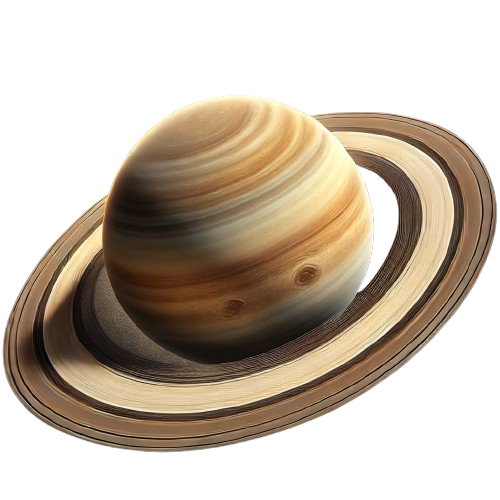
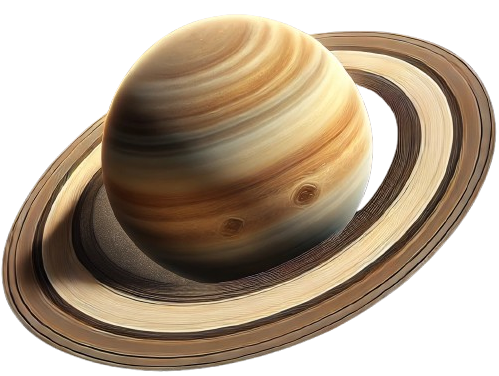
feat(): ajout compétence

diff --git a/src/components/home/SkillSection.tsx b/src/components/home/SkillSection.tsx
@@ -4,6 +4,7 @@ import React, {useEffect, useRef} from 'react';
 import {gsap} from 'gsap';
 import {ScrollTrigger} from 'gsap/ScrollTrigger';
 import Image from 'next/image';
+import soleil from '@/../public/assets/image/planete/soleil.png';
 import mercury from '@/../public/assets/image/planete/mercure.png';
 import venus from '@/../public/assets/image/planete/venus.png';
 import terre from '@/../public/assets/image/planete/terre.png';
@@ -16,6 +17,9 @@ import arrow from '@/../public/assets/image/utils/special-arrow-icon.svg';
 import WebDiv from "@/components/home/skillUtils/WebDiv";
 import AppDevDiv from "@/components/home/skillUtils/AppDevDiv";
 import BDDiv from "@/components/home/skillUtils/BDDiv";
+import SystemDiv from "@/components/home/skillUtils/SystemDiv";
+import ReseauDiv from "@/components/home/skillUtils/RéseauProtocoleDiv";
+import OutilsDevDiv from "@/components/home/skillUtils/OutilsDev";
 
 
 function ScrollSection() {
@@ -53,9 +57,18 @@ function ScrollSection() {
             <div ref={triggerRef}>
                 <div ref={sectionRef} className="min-h-screen w-[900vw] flex flex-row relative">
 
-                    <div className="min-h-screen w-screen flex justify-center items-center">
-                        <h2 className="text-6xl text-center items-center">Bienvenue dans mon système de compétences</h2>
-                        <Image src={arrow} alt={arrow} className={"ml-10 mt-3"}/>
+                    <div className="min-h-screen w-screen flex flex-col justify-center items-center">
+                        <div className={"flex justify-center items-center mb-10"}>
+                            <h2 className="text-6xl text-center items-center">
+                                Bienvenue dans mon système de compétences
+                            </h2>
+                            <Image src={arrow} alt={arrow} className={"ml-10 mt-3"}/>
+                        </div>
+                        <Image
+                            src={soleil}
+                            alt="soleil"
+                            className="object-contain h-3/4 w-auto"
+                        />
                     </div>
 
                     {/* Mercury */}
@@ -64,7 +77,7 @@ function ScrollSection() {
                         <Image
                             src={mercury}
                             alt="Mercure"
-                            className="object-contain h-[70vh] w-auto"
+                            className="object-contain h-3/4 w-auto"
                         />
                         <WebDiv/>
                     </div>
@@ -74,7 +87,7 @@ function ScrollSection() {
                         <Image
                             src={venus}
                             alt="Venus"
-                            className="object-contain h-[70vh] w-auto"
+                            className="object-contain h-3/4 w-auto"
                         />
                         <AppDevDiv/>
                     </div>
@@ -84,48 +97,56 @@ function ScrollSection() {
                         <Image
                             src={terre}
                             alt="Terre"
-                            className="object-contain h-[70vh] w-auto mb-6"
+                            className="object-contain h-3/4 w-auto mb-6"
                         />
                         <BDDiv/>
                     </div>
                     {/* Mars */}
                     <div className="min-h-screen w-screen flex flex-col justify-center items-center">
+                        <h3 className="text-3xl">Système</h3>
                         <Image
                             src={mars}
                             alt="Mars"
-                            className="object-contain h-[70vh] w-auto"
+                            className="object-contain h-3/4 w-auto"
                         />
+                        <SystemDiv/>
                     </div>
                     {/* Jupiter */}
                     <div className="min-h-screen w-screen flex flex-col justify-center items-center">
+                        <h3 className={"text-3xl "}>Réseau et protocoles</h3>
                         <Image
                             src={jupiter}
                             alt="Jupiter"
-                            className="object-contain h-[70vh] w-auto"
+                            className="object-contain h-2/3 w-auto"
                         />
+                        <ReseauDiv/>
                     </div>
                     {/* Saturn */}
                     <div className="min-h-screen w-screen flex flex-col justify-center items-center">
+                        <h3 className="text-3xl">Outils developpement et sécurité</h3>
                         <Image
                             src={saturne}
                             alt="Saturne"
-                            className="object-contain h-[70vh] w-auto"
+                            className="object-contain h-3/4 w-auto"
                         />
+                        <OutilsDevDiv/>
                     </div>
                     {/* Uranus */}
                     <div className="min-h-screen w-screen flex flex-col justify-center items-center">
+                        <h3 className={"text-3xl"}>Management</h3>
                         <Image
                             src={uranus}
                             alt="Uranus"
-                            className="object-contain h-[70vh] w-auto"
+                            className="object-contain h-3/4 w-auto"
                         />
                     </div>
                     {/* Neptune */}
                     <div className="min-h-screen w-screen flex flex-col justify-center items-center">
+                        <h3 className={"text-3xl"}>Outils autre</h3>
                         <Image
                             src={neptune}
                             alt="Neptune"
-                            className="object-contain h-[70vh] w-auto"
+                            className="object-contain h-3/4 w-auto"
                         />
                     </div>
                     <div className="min-h-screen w-screen flex flex-col justify-center items-center text-center">

diff --git a/src/components/home/skillUtils/OutilsDev.tsx b/src/components/home/skillUtils/OutilsDev.tsx
@@ -1,0 +1,31 @@
+import burp from "@/../public/assets/image/logoDev/outilsDev/burp-icon.svg";
+import docker from "@/../public/assets/image/logoDev/outilsDev/docker-icon.svg";
+import figma from "@/../public/assets/image/logoDev/outilsDev/figma.png";
+import git from "@/../public/assets/image/logoDev/outilsDev/git-icon.svg";
+import github from "@/../public/assets/image/logoDev/outilsDev/github.png";
+import gitlab from "@/../public/assets/image/logoDev/outilsDev/gitlab.png";
+import googleCloud from "@/../public/assets/image/logoDev/outilsDev/google cloud.png";
+import jdea from "@/../public/assets/image/logoDev/outilsDev/jdea.png";
+import phpStorm from "@/../public/assets/image/logoDev/outilsDev/phpStorm.png";
+import vscode from "@/../public/assets/image/logoDev/outilsDev/vscode.png";
+import webStorm from "@/../public/assets/image/logoDev/outilsDev/webstorm.png";
+
+import Image from "next/image";
+
+export default function OutilsDevDiv() {
+    return (
+        <div className={"flex justify-center text-center items-center space-x-4 w-full"}>
+            <Image className={"w-24 h-24"} src={burp} alt={"burp"} />
+            <Image className={"w-24 h-24"} src={docker} alt={"docker"} />
+            <Image className={"w-24 h-24"} src={figma} alt={"figma"} />
+            <Image className={"w-24 h-24"} src={git} alt={"git"} />
+            <Image className={"w-24 h-24"} src={github} alt={"github"} />
+            <Image className={"w-24 h-24"} src={gitlab} alt={"gitlab"} />
+            <Image className={"w-24 h-24"} src={googleCloud} alt={"google cloud"} />
+            <Image className={"w-24 h-24"} src={jdea} alt={"idea"} />
+            <Image className={"w-24 h-24"} src={phpStorm} alt={"phpStorm"} />
+            <Image className={"w-24 h-24"} src={vscode} alt={"vscode"} />
+            <Image className={"w-24 h-24"} src={webStorm} alt={"webStorm"} />
+        </div>
+    );
+}

diff --git a/src/components/home/skillUtils/SystemDiv.tsx b/src/components/home/skillUtils/SystemDiv.tsx
@@ -1,0 +1,25 @@
+import windows from "@/../public/assets/image/logoDev/systeme/windows.png"
+import winServ from "@/../public/assets/image/logoDev/systeme/win serveur.png"
+import linux from "@/../public/assets/image/logoDev/systeme/linux-icon.svg"
+import virtualBox from "@/../public/assets/image/logoDev/systeme/virtualBox.svg"
+import hyperV from "@/../public/assets/image/logoDev/systeme/hyperV.png"
+import apache from "@/../public/assets/image/logoDev/systeme/apache.png"
+import nginx from "@/../public/assets/image/logoDev/systeme/nginx.png"
+import vercel from "@/../public/assets/image/logoDev/systeme/vercel.png"
+
+import Image from "next/image";
+
+export default function SystemDiv() {
+    return (
+        <div className={"flex justify-center text-center items-center space-x-4 w-full"}>
+            <Image className={"w-28 h-28"} src={windows} alt={"windows"}/>
+            <Image className={"w-28 h-28 bg-white"} src={winServ} alt={"winServ"}/>
+            <Image className={"w-28 h-28"} src={linux} alt={"linux"}/>
+            <Image className={"w-28 h-28"} src={virtualBox} alt={"virtualBox"}/>
+            <Image className={"w-28 h-28"} src={hyperV} alt={"hyperV"}/>
+            <Image className={"w-28 h-28"} src={apache} alt={"apache"}/>
+            <Image className={"w-28 h-28"} src={nginx} alt={"nginx"}/>
+            <Image className={"w-28 h-28 bg-white rounded-full p-2"} src={vercel} alt={"vercel"}/>
+        </div>
+    )
+}

diff --git a/src/components/home/skillUtils/RéseauProtocoleDiv.tsx b/src/components/home/skillUtils/RéseauProtocoleDiv.tsx
@@ -1,0 +1,25 @@
+import dhcp from "@/../public/assets/image/logoDev/reseau/dhcp.png";
+import gns3 from "@/../public/assets/image/logoDev/reseau/gns3.png";
+import http from "@/../public/assets/image/logoDev/reseau/http.png";
+import ipv4 from "@/../public/assets/image/logoDev/reseau/ipV4.png";
+import ipv6 from "@/../public/assets/image/logoDev/reseau/ipV6.png";
+import ospf from "@/../public/assets/image/logoDev/reseau/ospf.png";
+import tcpip from "@/../public/assets/image/logoDev/reseau/tcpip.png";
+import wireshark from "@/../public/assets/image/logoDev/reseau/wireshark.png";
+
+import Image from "next/image";
+
+export default function ReseauDiv() {
+    return (
+        <div className={"flex justify-center text-center items-center space-x-4 w-full mt-10"}>
+            <Image className={"w-28 h-28"} src={dhcp} alt={"dhcp"} />
+            <Image className={"w-28 h-28"} src={gns3} alt={"gns3"} />
+            <Image className={"w-28 h-28"} src={http} alt={"http"} />
+            <Image className={"w-28 h-28"} src={ipv4} alt={"ipv4"} />
+            <Image className={"w-28 h-28"} src={ipv6} alt={"ipv6"} />
+            <Image className={"w-28 h-28"} src={ospf} alt={"ospf"} />
+            <Image className={"w-28 h-28"} src={tcpip} alt={"tcpip"} />
+            <Image className={"w-28 h-28"} src={wireshark} alt={"wireshark"} />
+        </div>
+    );
+}

diff --git a/src/components/home/skillUtils/AppDevDiv.tsx b/src/components/home/skillUtils/AppDevDiv.tsx
@@ -2,6 +2,7 @@ import c from "@/../public/assets/image/logoDev/appLanguage/c-icon.svg"
 import cpp from "@/../public/assets/image/logoDev/appLanguage/cpp-icon.svg"
 import java from "@/../public/assets/image/logoDev/appLanguage/java-icon.png"
 import python from "@/../public/assets/image/logoDev/appLanguage/python.png"
+import maeven from "@/../public/assets/image/logoDev/appLanguage/maeven.png"
 
 import Image from "next/image";
 
@@ -12,6 +13,7 @@ export default function AppDevDiv() {
             <Image className={"w-28 h-28"} src={cpp} alt={"cpp"}/>
             <Image className={"w-28 h-28"} src={java} alt={"java"}/>
             <Image className={"w-28 h-28"} src={python} alt={"python"}/>
+            <Image className={"w-28 h-28 bg-white"} src={maeven} alt={"python"}/>
         </div>
     )
 }
